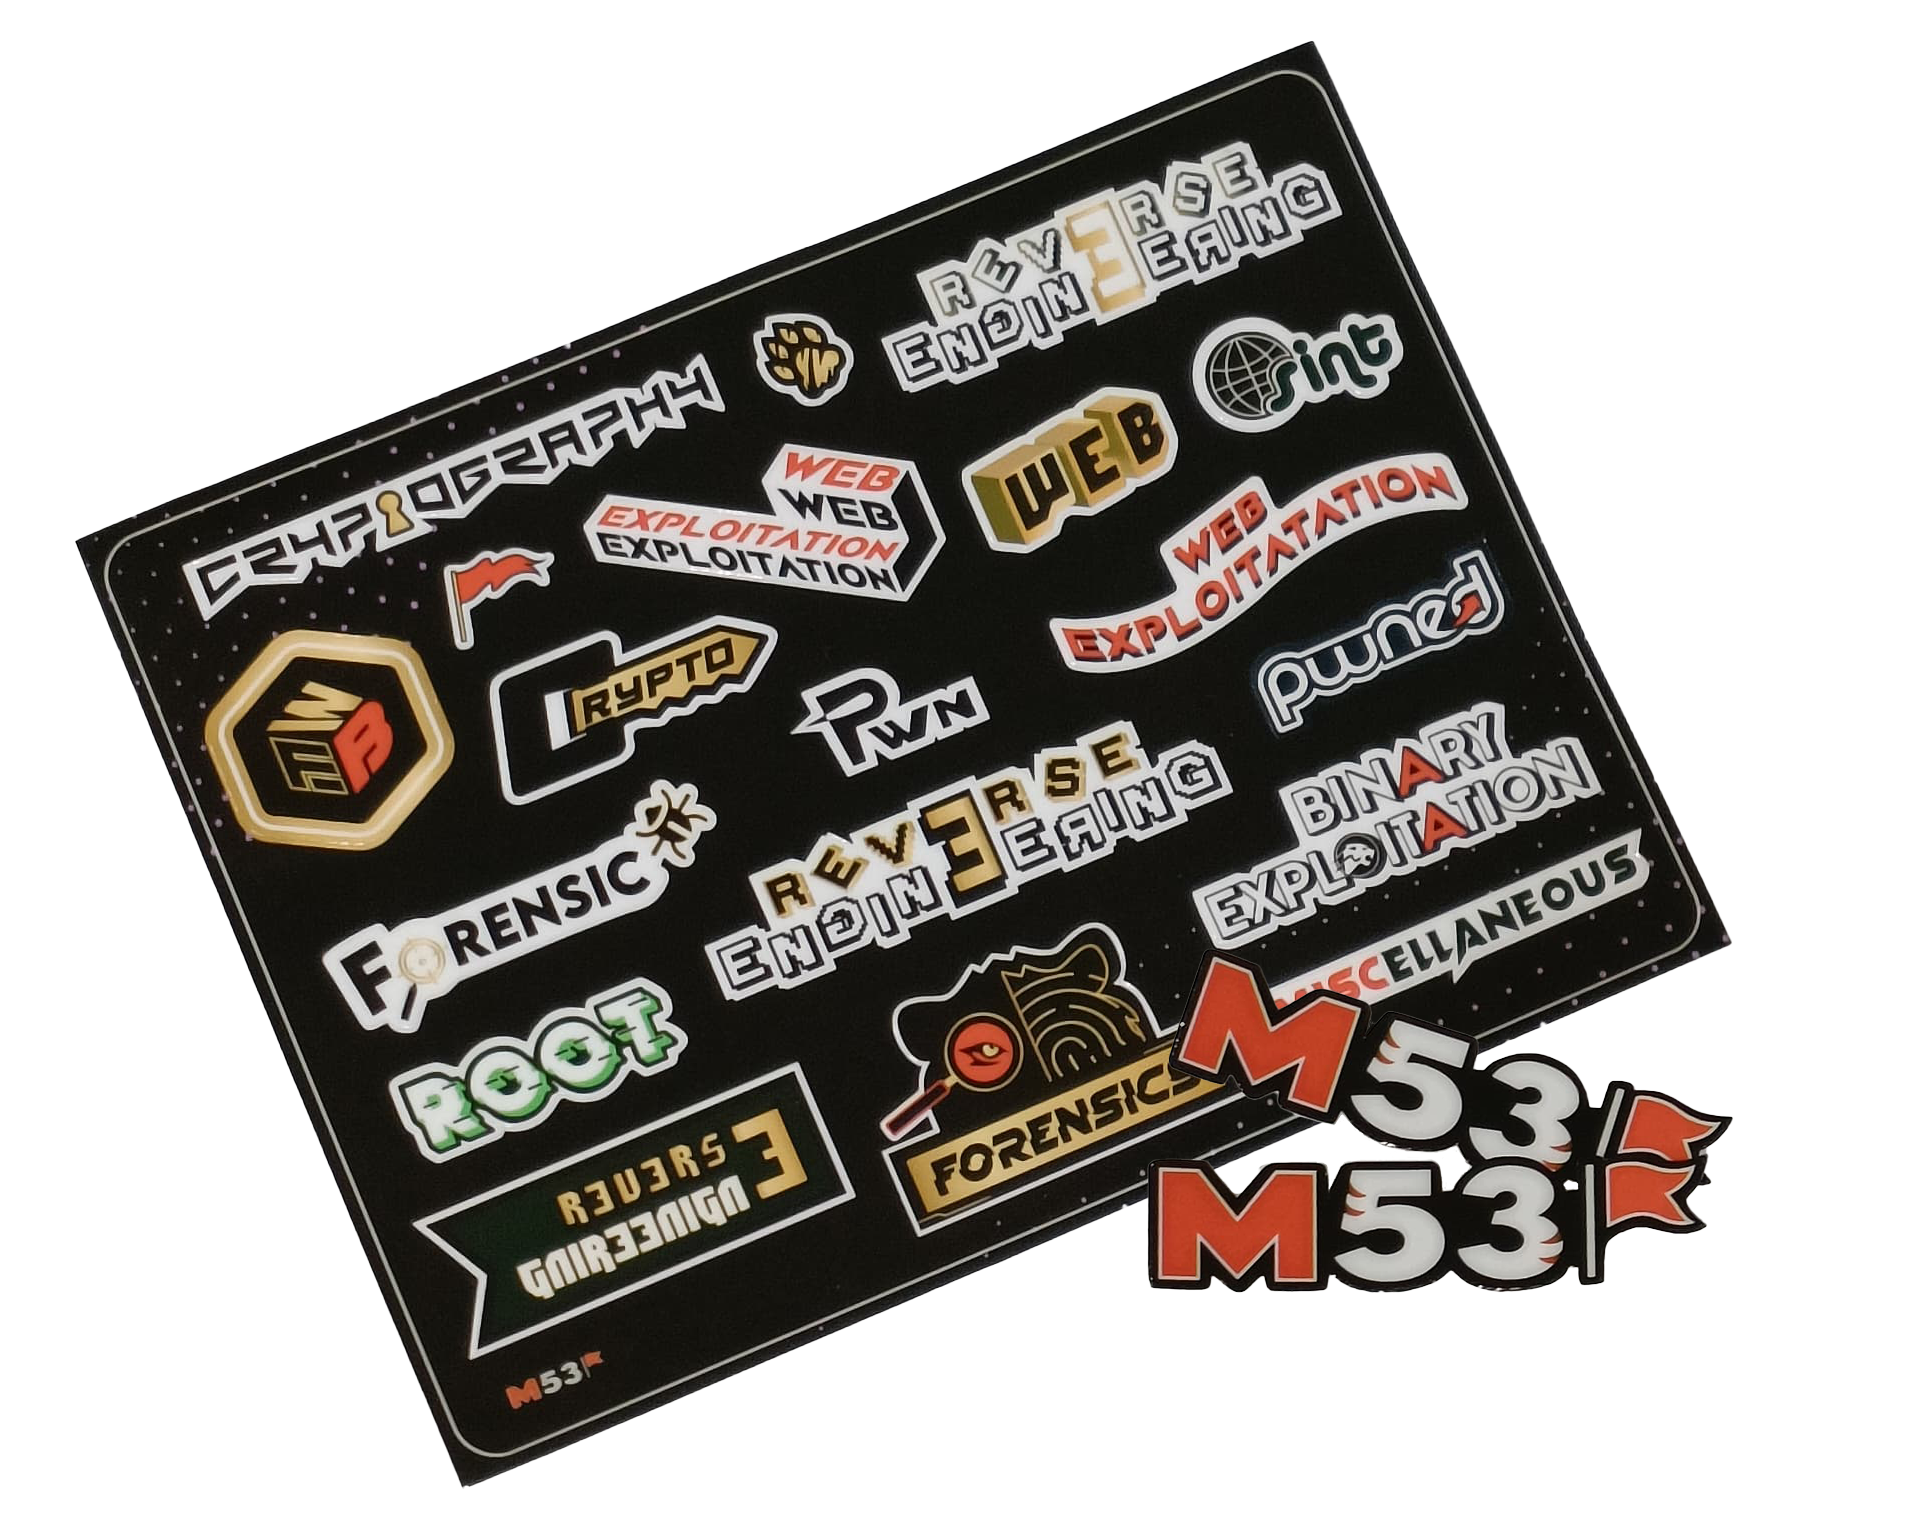
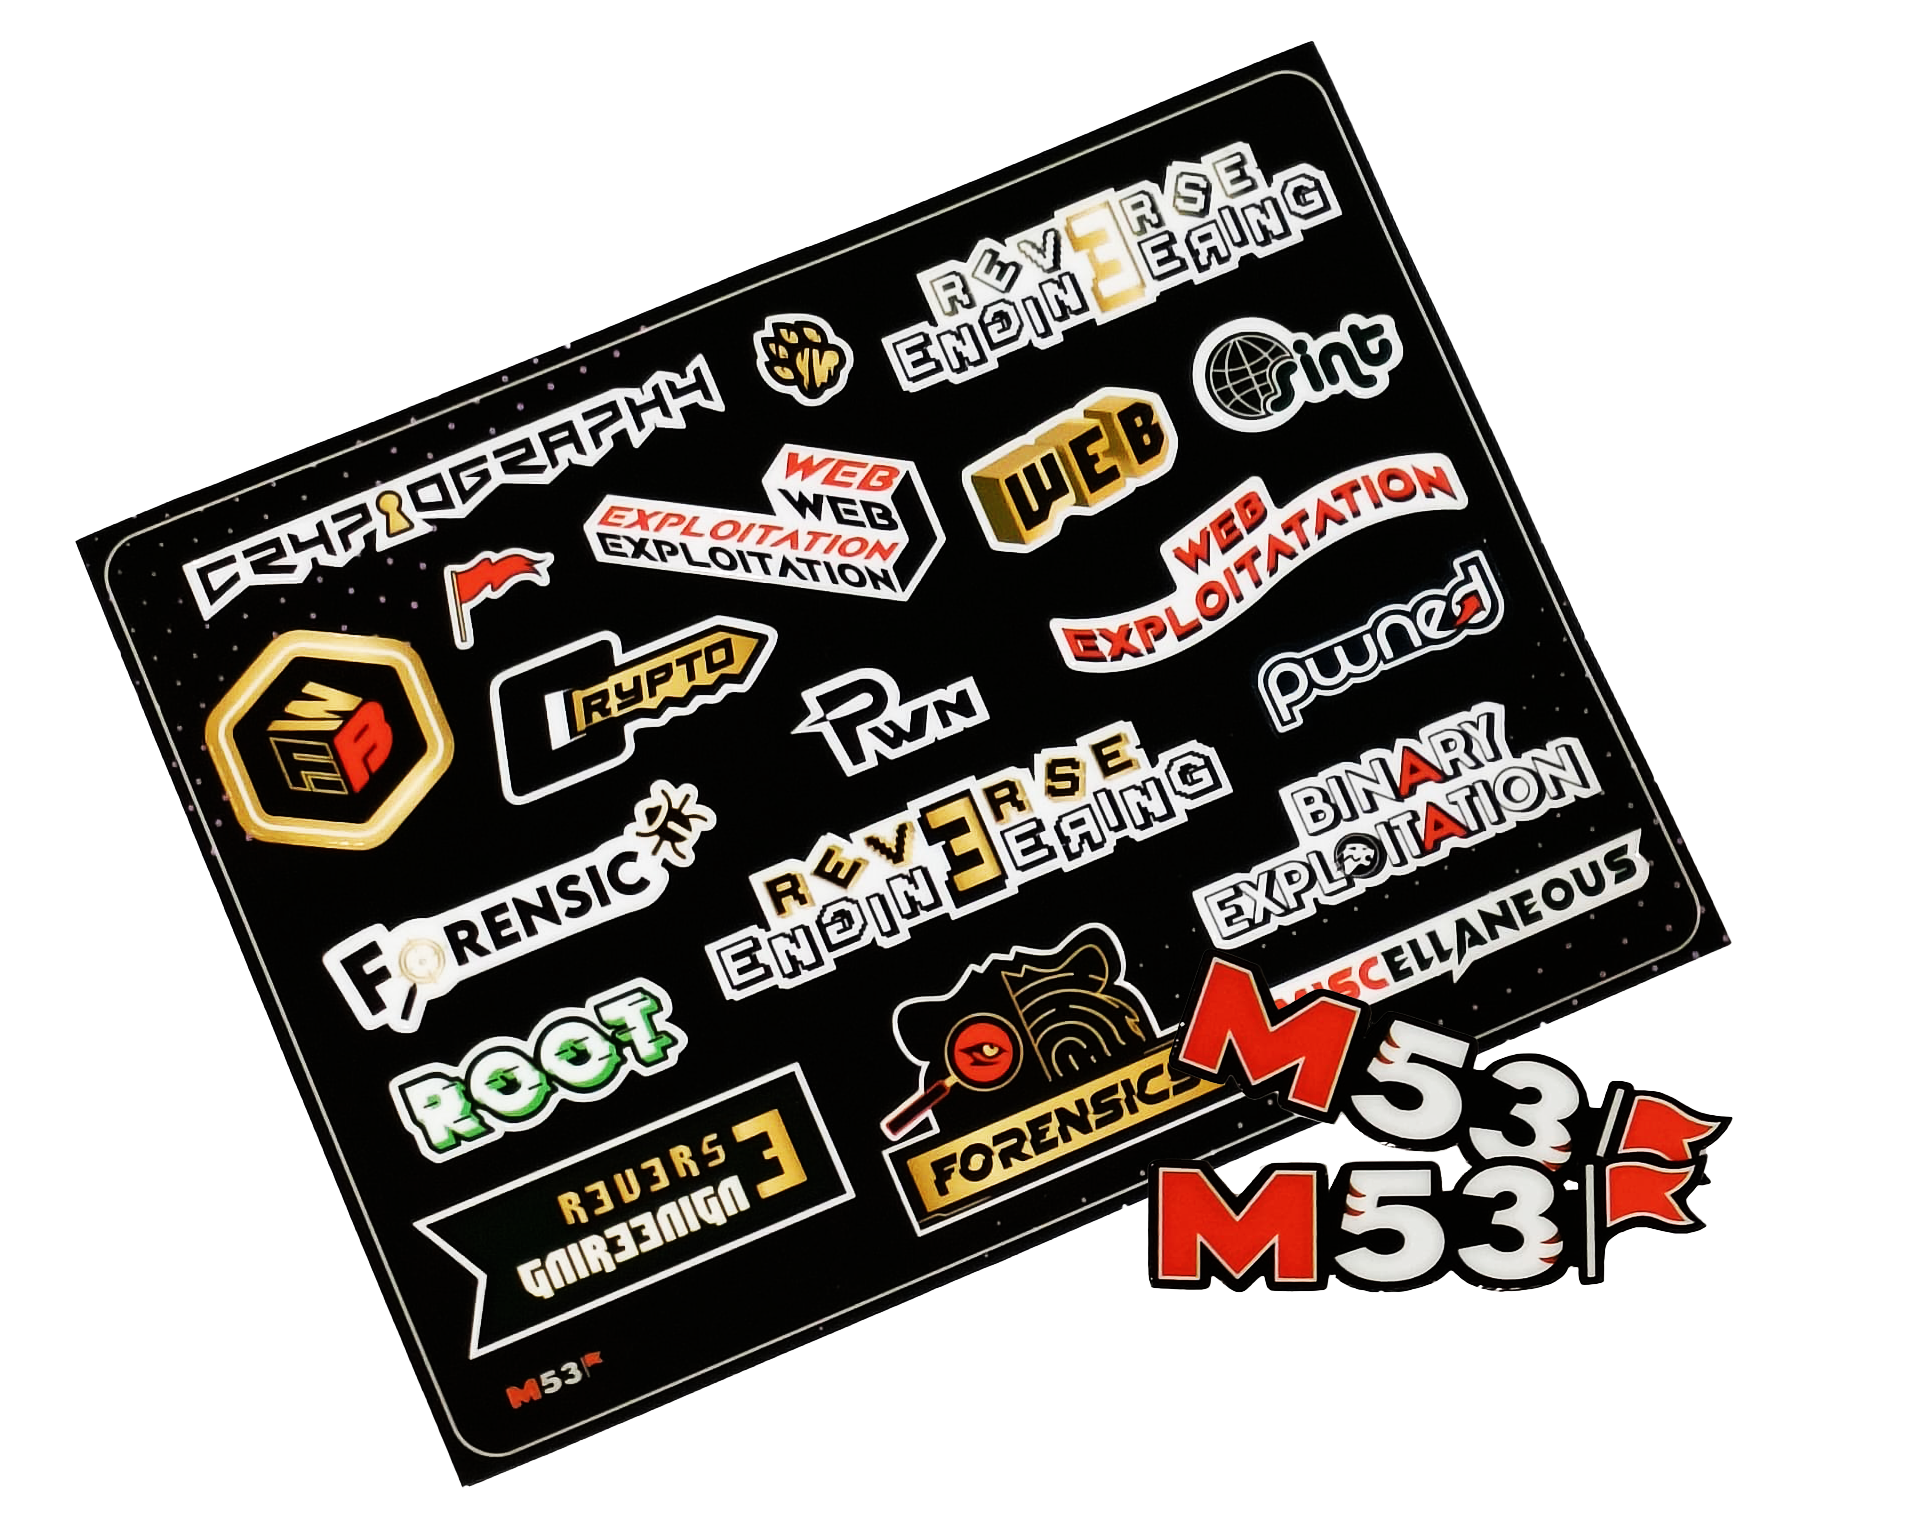
update merch

diff --git a/src/index.html b/src/index.html
@@ -1829,7 +1829,7 @@
         <div class="w-full md:w-1/2 lg:w-1/3 px-4">
           <div class="relative z-10 bg-white dark:bg-[#1D2144] shadow-signUp px-8 py-10 rounded-md mb-10 wow fadeInUp"
             data-wow-delay=".1s">
-            <img src="images/merchs/shirt_bright_optimized.png" alt="image" class="w-full" /></br>
+            <img src="images/merchs/shirt.png" alt="image" class="w-full" /></br>
             <div class="flex justify-between items-center">
               <h3 class="font-bold text-black dark:text-white text-3xl mb-2 price">
                 RM<span class="amount">53</span>
@@ -2033,7 +2033,7 @@
         <div class="w-full md:w-1/2 lg:w-1/3 px-4">
           <div class="relative z-10 bg-white dark:bg-[#1D2144] shadow-signUp px-8 py-10 rounded-md mb-10 wow fadeInUp"
             data-wow-delay=".2s">
-            <img src="images/merchs/bundle-horizontal_bright_optimized.png" alt="image" class="w-full" /></br>
+            <img src="images/merchs/bundle-horizontal.png" alt="image" class="w-full" /></br>
             <div class="flex justify-between items-center">
               <h3 class="font-bold text-black dark:text-white text-3xl mb-2 price">
                 RM<span class="amount">63</span>

diff --git a/build/index.html b/build/index.html
@@ -1829,7 +1829,7 @@
         <div class="w-full md:w-1/2 lg:w-1/3 px-4">
           <div class="relative z-10 bg-white dark:bg-[#1D2144] shadow-signUp px-8 py-10 rounded-md mb-10 wow fadeInUp"
             data-wow-delay=".1s">
-            <img src="images/shirt_bright_optimized.png" alt="image" class="w-full" /></br>
+            <img src="images/shirt.png" alt="image" class="w-full" /></br>
             <div class="flex justify-between items-center">
               <h3 class="font-bold text-black dark:text-white text-3xl mb-2 price">
                 RM<span class="amount">53</span>
@@ -2033,7 +2033,7 @@
         <div class="w-full md:w-1/2 lg:w-1/3 px-4">
           <div class="relative z-10 bg-white dark:bg-[#1D2144] shadow-signUp px-8 py-10 rounded-md mb-10 wow fadeInUp"
             data-wow-delay=".2s">
-            <img src="images/bundle-horizontal_bright_optimized.png" alt="image" class="w-full" /></br>
+            <img src="images/bundle-horizontal.png" alt="image" class="w-full" /></br>
             <div class="flex justify-between items-center">
               <h3 class="font-bold text-black dark:text-white text-3xl mb-2 price">
                 RM<span class="amount">63</span>
